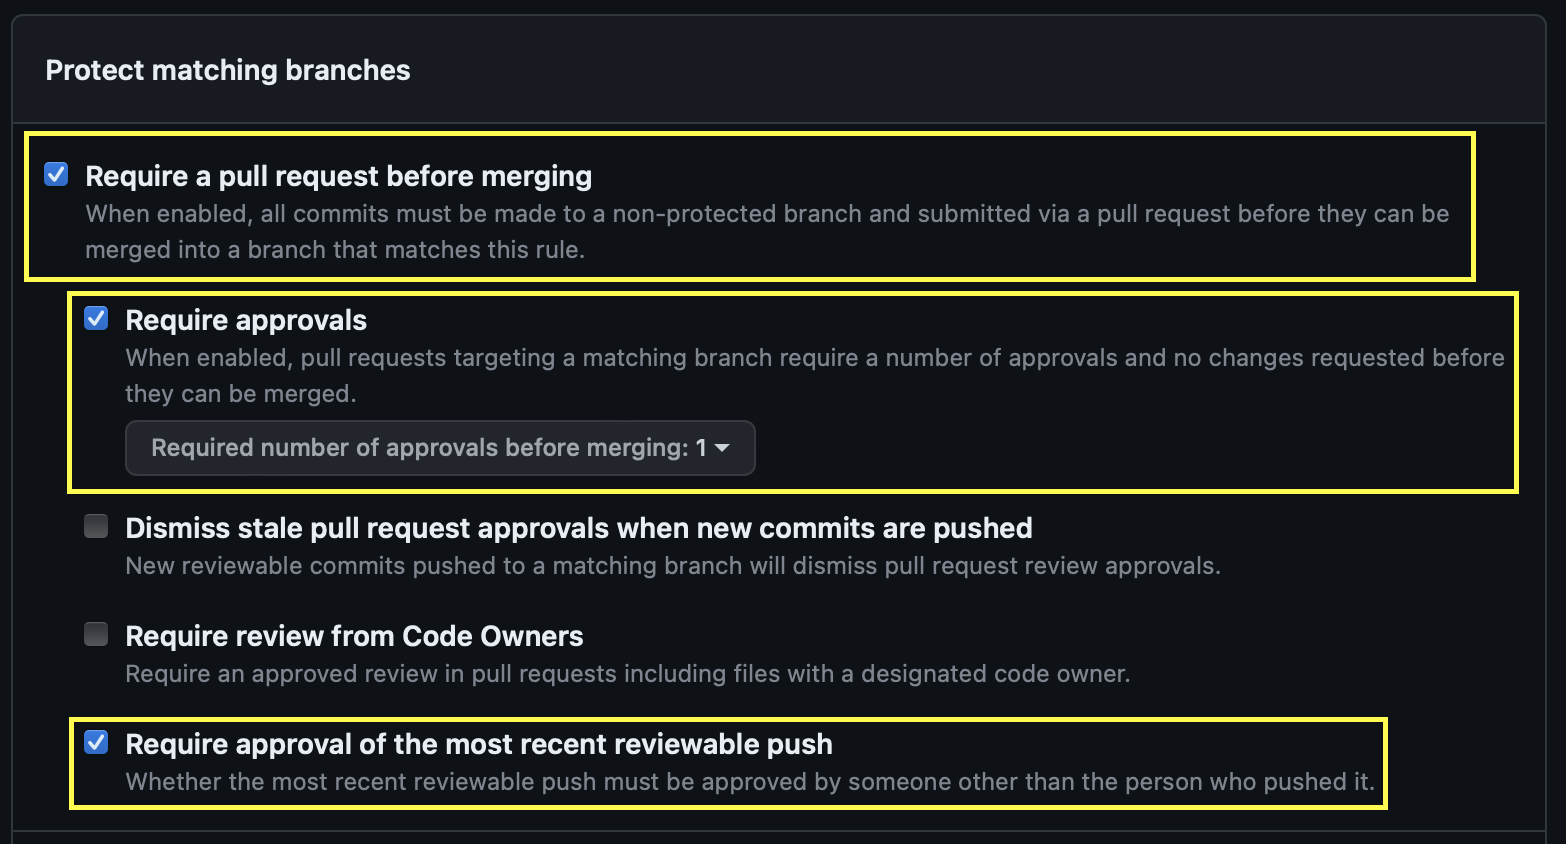
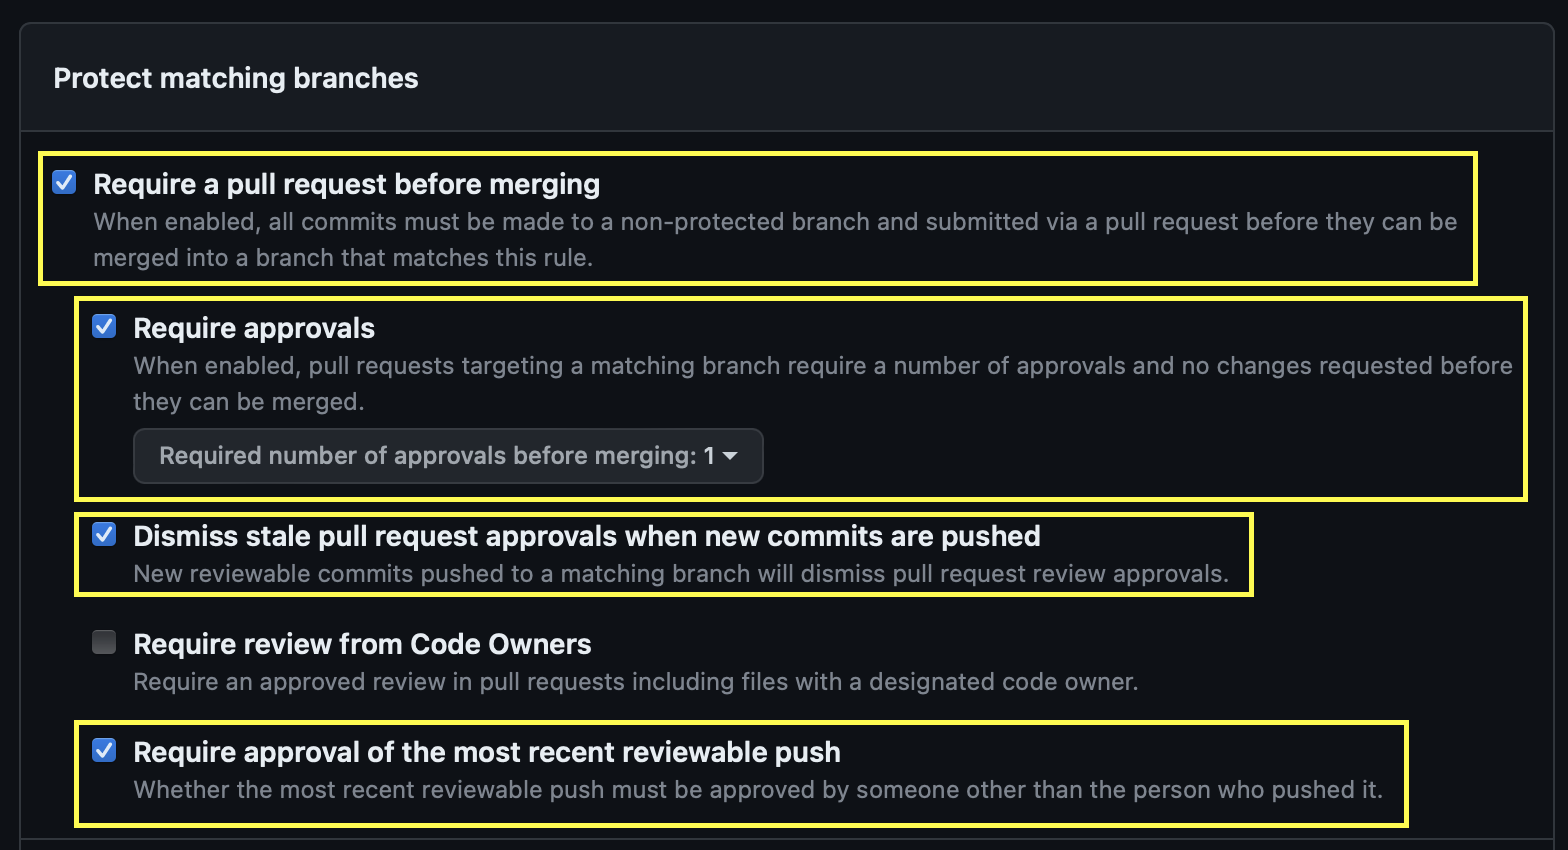
Refine branch protection instructions

Changed region(s): [[0.0, 0.0308, 1.0, 1.0], [0.0307, 0.0, 0.9808, 0.0308]]

diff --git a/docs/Phase-3/repository-and-project-setup.md b/docs/Phase-3/repository-and-project-setup.md
@@ -30,10 +30,14 @@ helping the mentee with these instructions.
     <br/><img srcset="/curriculum/assets/images/createMenteeBranch.png 2x">
   - Go back to your "main" branch, and click the link to "Protect this branch"
     <br/><img srcset="/curriculum/assets/images/protectBranch1.png 2x">
-  - Select "Require a pull request before merging", "Require approvals", and "Require approval of the most recent reviewable push".
+  - Select "Require a pull request before merging", "Require approvals", "Dismiss stale pull request approvals when new commits are pushed" 
+    and "Require approval of the most recent reviewable push".
     These changes will require you to work on the mentee branch and then submit a PR for mentor review in order to merge them to the main
-    branch.  This discipline will help your mentor review your work, and mirrors the way many organizations will work.
+    branch.  
     <br/><img srcset="/curriculum/assets/images/protectBranch2.png 2x">
+    Push the "Create" button.
+    
+    This discipline will help your mentor review your work, and mirrors the way many organizations will work.
 
 ## Add your mentor as a collaborator
 
